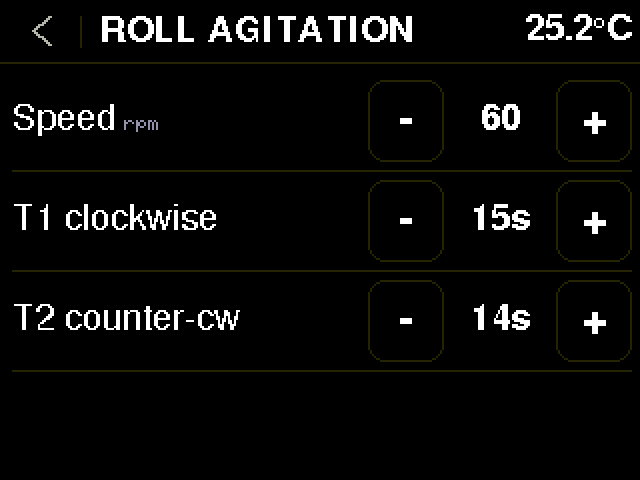
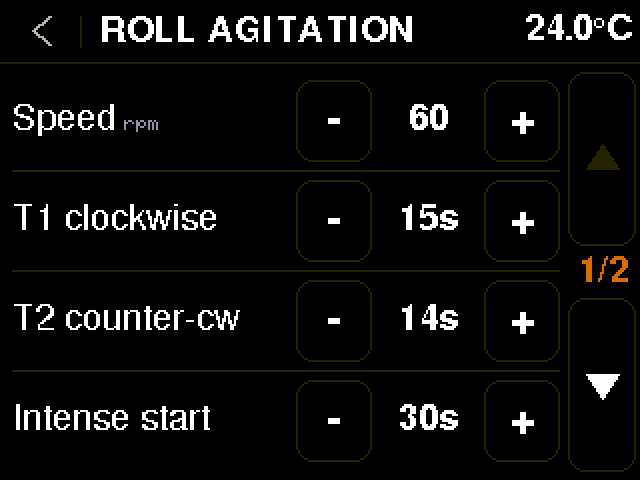
README: screenshots from the device running v2.2, drained pre-wash screen

diff --git a/README.md b/README.md
@@ -128,6 +128,14 @@ All screenshots are taken directly from the device (320×240 screen, scaled 2× 
 <td width="50%" valign="top"><b>First step:</b> “roll 6/16” at the top (chemistry usage check), estimated time of the whole process at the bottom.</td>
 <td width="50%" valign="top"><b>Pre-wash:</b> the probe measures the tap water in the tank. A drop of about 1 °C within a few seconds means the water is being poured out – tank cooling is counted from that moment; a rise means it was refilled. Green = 38–45 °C.</td>
 </tr>
+<tr>
+<td width="50%" valign="top" align="center"><img src="docs/screens/08g_water_drained.png" width="100%"></td>
+<td width="50%" valign="top"></td>
+</tr>
+<tr>
+<td width="50%" valign="top"><b>Drained:</b> the last water temperature and how long the tank has been empty; the thermal model counts tank cooling from the start of pouring out.</td>
+<td width="50%" valign="top"></td>
+</tr>
 </table>
 
 ### During the process
@@ -212,7 +220,7 @@ All screenshots are taken directly from the device (320×240 screen, scaled 2× 
 </tr>
 </table>
 
-*Screenshots were taken on v2.0; newer versions differ in the version number and in the pre-wash panel (water / drained / waiting states).*
+*Screenshots taken on the device running v2.2.*
 
 ---
 

diff --git a/README.pl.md b/README.pl.md
@@ -128,6 +128,14 @@ Zrzuty ekranu pochodzą prosto z urządzenia (ekran 320×240, na zrzutach powię
 <td width="50%" valign="top"><b>Pierwszy krok:</b> u góry „rolka 6/16” (kontrola zużycia chemii), na dole szacowany czas całego procesu.</td>
 <td width="50%" valign="top"><b>Kąpiel wstępna:</b> czujnik mierzy wodę z kranu w koreksie. Spadek o ok. 1 °C w ciągu kilku sekund oznacza wylewanie i od tej chwili liczy się stygnięcie koreksu, a wzrost – ponowne nalanie. Kolor zielony oznacza zakres 38–45 °C.</td>
 </tr>
+<tr>
+<td width="50%" valign="top" align="center"><img src="docs/screens/08g_water_drained.png" width="100%"></td>
+<td width="50%" valign="top"></td>
+</tr>
+<tr>
+<td width="50%" valign="top"><b>Wylana:</b> temperatura ostatniej wody i jak długo koreks stoi pusty; model cieplny liczy stygnięcie koreksu od początku wylewania.</td>
+<td width="50%" valign="top"></td>
+</tr>
 </table>
 
 ### W trakcie procesu
